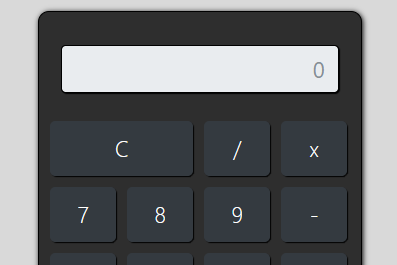
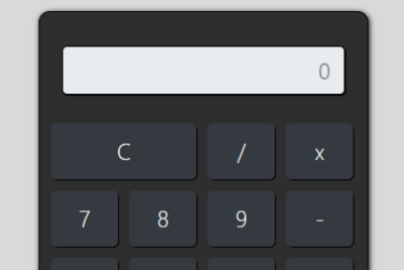
imagens atualizadas. css com object-fit, e html com novos cards

diff --git a/index.html b/index.html
@@ -55,6 +55,28 @@
 
             <div class="port-wrapper">
 
+                <div class="card react"> 
+                    <div class="card-content">
+                        <img src="/img/dtmoney.png" style="width:100%">
+                        <h4 class="project-title">DT money</h4>
+                        <p class="project-description">Esta é uma aplicação desenvolvida para ajudar as pessoas a monitorarem seus gastos e receitas, separados por categoria.</p>
+                        <div class="links">
+                            <a aria-disabled="true" target="_blank">Site</a>
+                            <a href="https://github.com/matheus-ferreira1/DT-money" target="_blank">Código</a>
+                        </div>
+                    </div>
+                </div>
+                <div class="card html css js"> 
+                    <div class="card-content">
+                        <img src="/img/land.png" style="width:100%">
+                        <h4 class="project-title">Landing page</h4>
+                        <p class="project-description">Esta é uma landing page para um site de venda de serviços holísticos. A mesma contém carrossel e responsividade.</p>
+                        <div class="links">
+                            <a href="https://matheus-ferreira1.github.io/landing-page/" target="_blank">Site</a>
+                            <a href="https://github.com/matheus-ferreira1/landing-page" target="_blank">Código</a>
+                        </div>
+                    </div>
+                </div>
                 <div class="card html js"> 
                     <div class="card-content">
                         <img src="/img/calc.png" style="width:100%">
@@ -152,7 +174,7 @@
             
         </div>
         <div class="ending">
-            <p>&copy; 2022 Todos os direitos reservados</p>
+            <p>&copy; 2022 Matheus Ferreira</p>
         </div>
     </footer>
     

diff --git a/style.css b/style.css
@@ -143,6 +143,12 @@ main {
     text-align: center;
 }
 
+.card-content img {
+    width: 270px;
+    height: 400px;
+    object-fit: cover;
+}
+
 .links {
     display: flex;
     gap: 10px;
